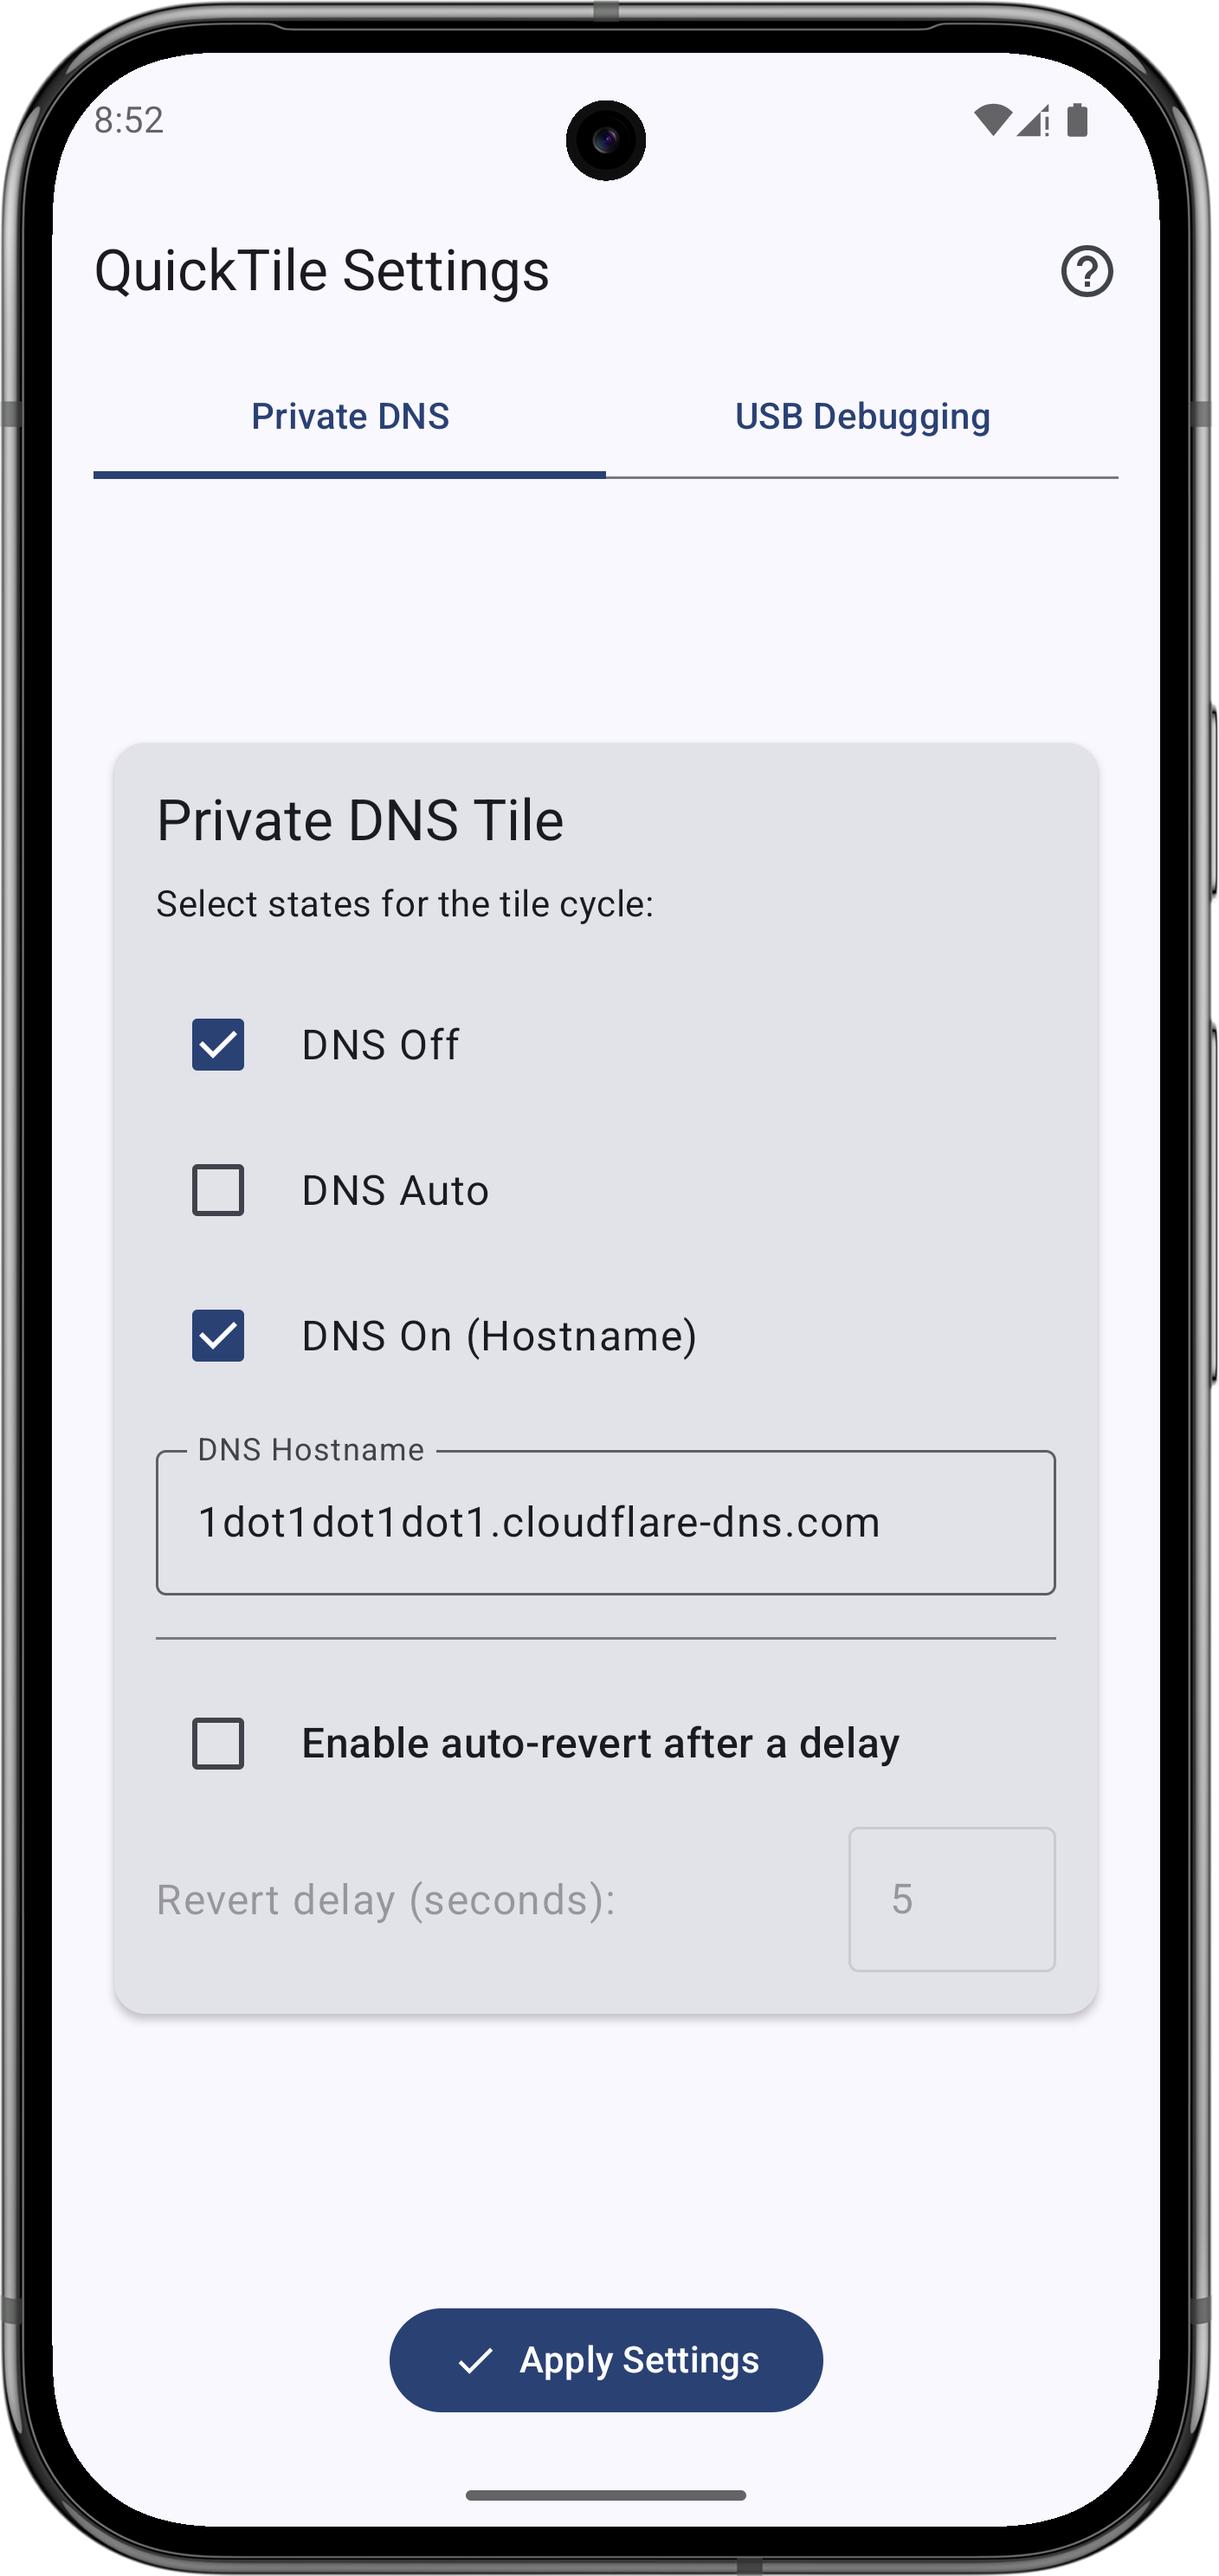
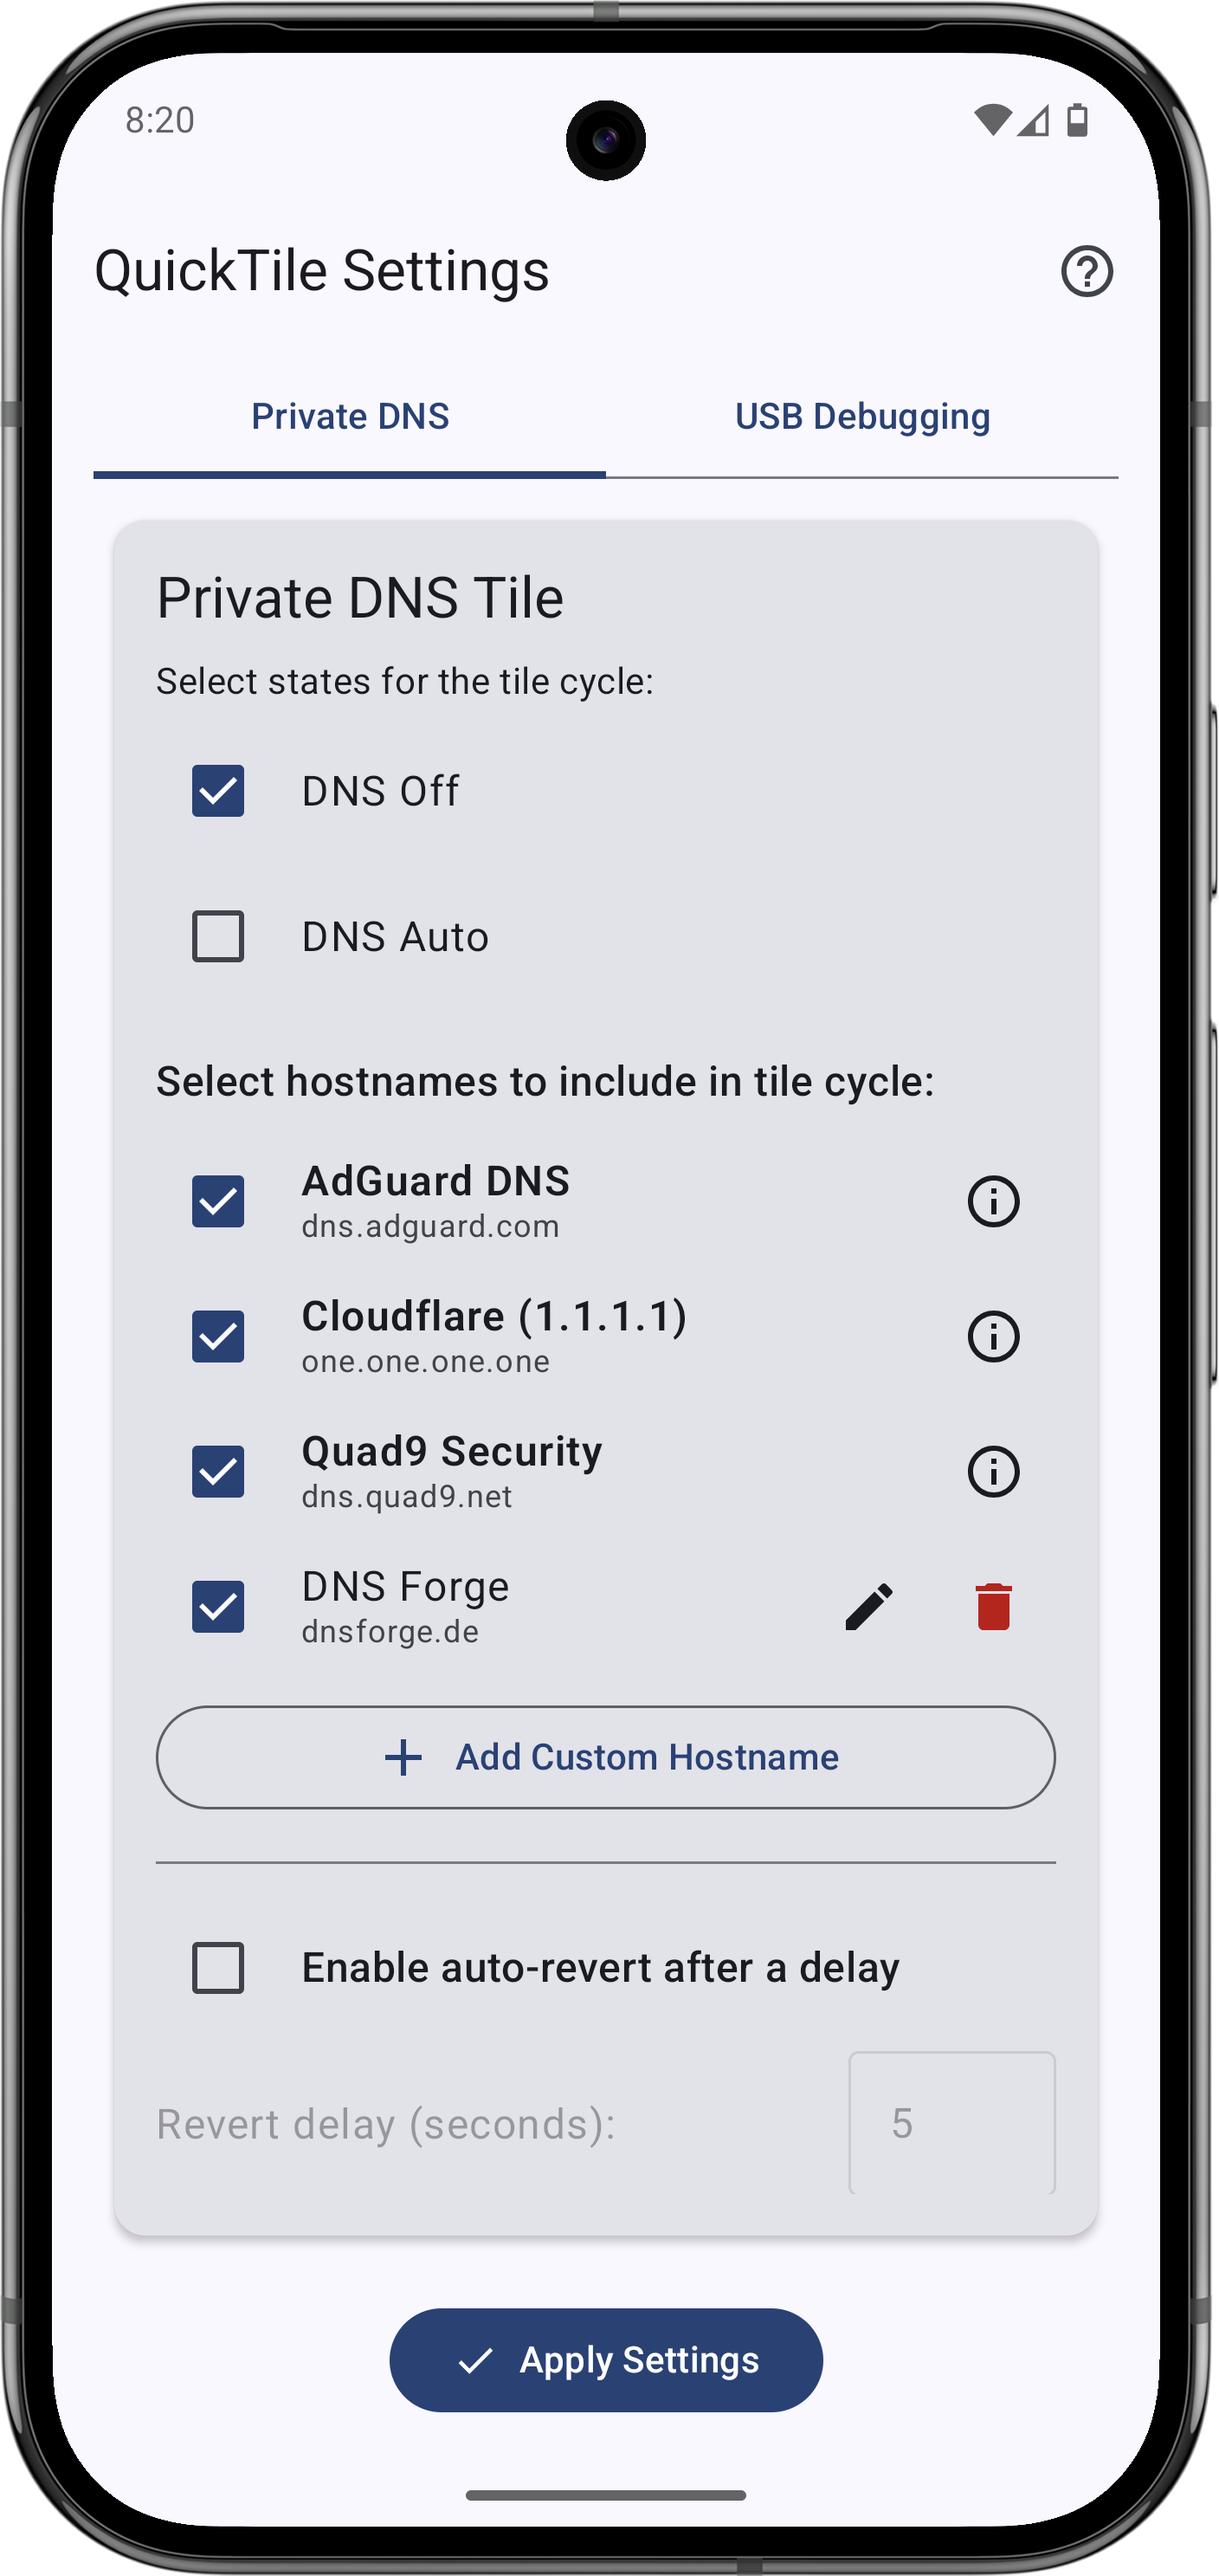
updated docs

diff --git a/README.md b/README.md
@@ -20,9 +20,13 @@ Jetpack Compose UI.
 ## Features
 
 * **Private DNS Quick Tile:**
-    * Cycle through Off, Auto, and On (with custom hostname) states.
-    * Configure which states are included in the cycle via the app.
-    * Set a custom hostname for the "On" state.
+    * Cycle through Off, Auto, and user-selected Private DNS hostnames.
+    * Manage a list of DNS hostnames:
+        * Includes predefined options: Cloudflare (Performance & Privacy), AdGuard DNS (Ad & Tracker
+          Blocking), Quad9 (Security Focus).
+        * Add, edit, and delete custom DNS hostname entries.
+        * Select which hostnames (along with Off/Auto) are included in the tile's cycle.
+    * View information about the benefits of each predefined DNS provider directly in the app.
     * Optional: Automatically revert to the previous DNS state after a configurable delay.
 * **USB Debugging Quick Tile:**
     * Toggle USB Debugging On or Off.
@@ -42,9 +46,9 @@ Jetpack Compose UI.
 
 <p align="center">
   <img src="fastlane/metadata/android/en-US/images/phoneScreenshots/1.png" alt="DNS Tab" height="320"/>
-  <img src="fastlane/metadata/android/en-US/images/phoneScreenshots/2.png" alt="USB Tab" height="320"/>
-  <img src="fastlane/metadata/android/en-US/images/phoneScreenshots/3.png" alt="Help Dialog" height="320"/>
-  <img src="fastlane/metadata/android/en-US/images/phoneScreenshots/4.png" alt="Quick Tile Panel" height="320"/>
+  <img src="fastlane/metadata/android/en-US/images/phoneScreenshots/4.png" alt="USB Tab" height="320"/>
+  <img src="fastlane/metadata/android/en-US/images/phoneScreenshots/5.png" alt="Help Dialog" height="320"/>
+  <img src="fastlane/metadata/android/en-US/images/phoneScreenshots/6.png" alt="Quick Tile Panel" height="320"/>
 </p>
 
 ## Requirements
@@ -91,10 +95,19 @@ from a computer.
 1. Open the **Quick-Tile Settings** app.
 2. You'll see a warning if the permission hasn't been granted. Use the help icon if needed.
 3. Navigate to the **"Private DNS"** or **"USB Debugging"** tab.
-4. **Select Cycle States:** Check the boxes for the states you want each tile to cycle through (
-   e.g., for DNS: Off, Auto, On).
-5. **DNS Hostname:** If you enable "DNS On (Hostname)" for the Private DNS tile, enter your desired
-   private DNS provider's hostname.
+4. **For Private DNS:**
+    * **Select Cycle States:** Check the boxes for "DNS Off" and "DNS Auto" if you want them in the
+      cycle.
+    * **Manage Hostnames:**
+        * A list of DNS providers (predefined and custom) is shown.
+        * Check the box next to each hostname to include it in the tile's cycle.
+        * For predefined hostnames, tap the info icon (ⓘ) to learn about their benefits.
+        * Tap "Add Custom Hostname" to add your own DNS provider (you'll need a display name and the
+          actual hostname).
+        * Custom hostnames can be edited or deleted.
+5. **For USB Debugging:**
+    * **Select Cycle States:** Check "USB Debug On" and/or "USB Debug Off" to include them in the
+      cycle.
 6. **Auto-Revert (Optional):**
     * Enable "Enable auto-revert after a delay".
     * Set the "Revert delay (seconds)". The setting will revert to its previous state after this
